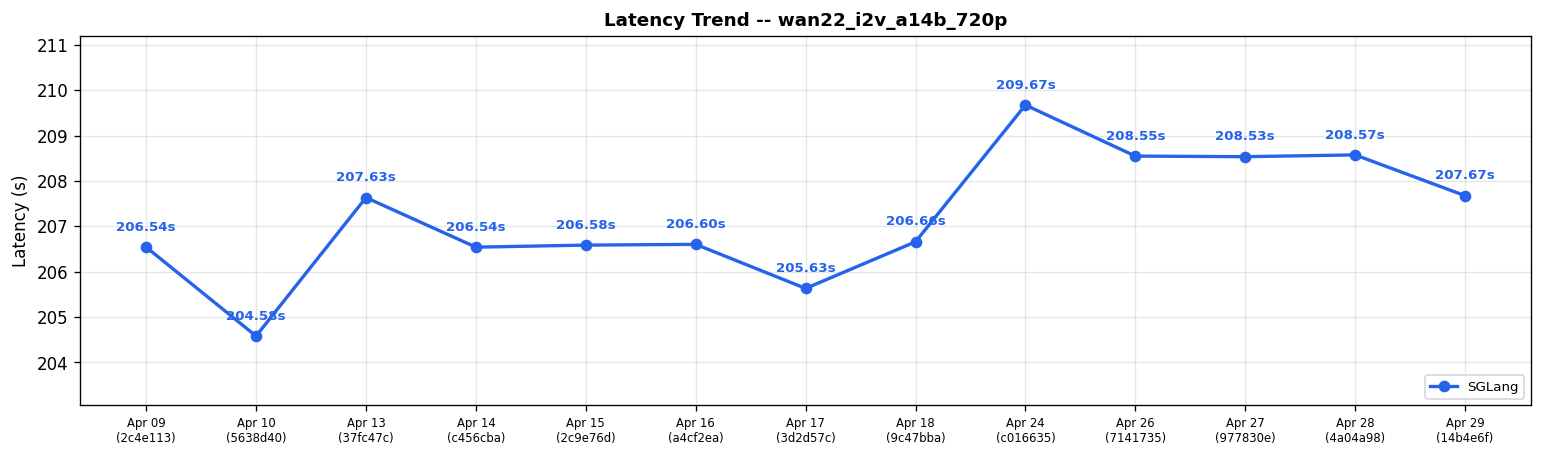
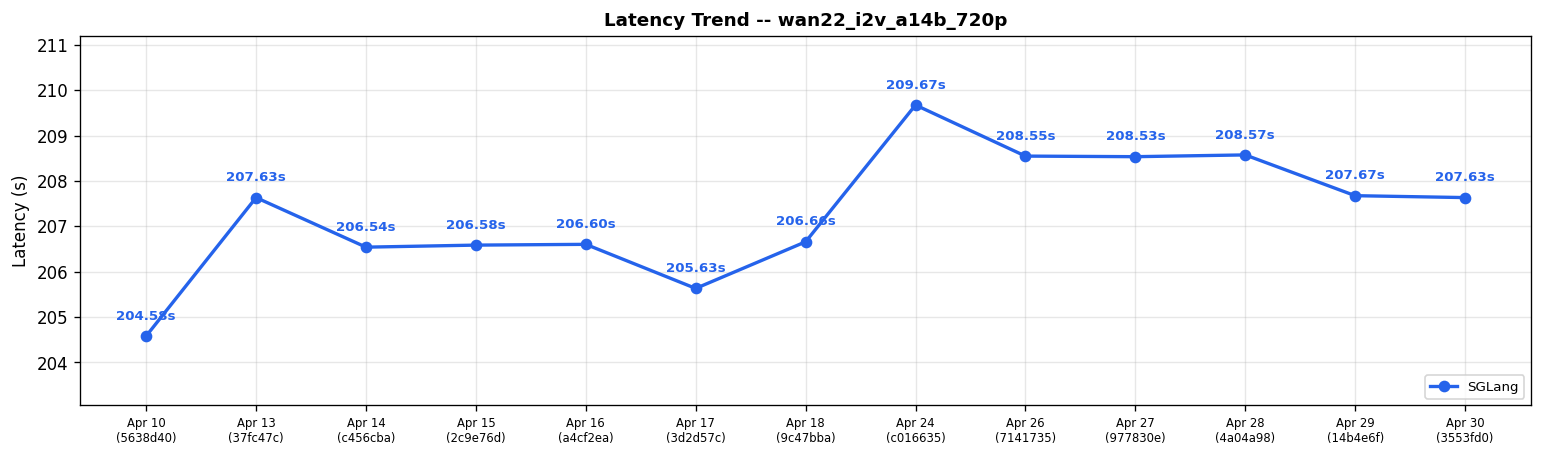
Diffusion comparison results for run 25141769035 (#587)

diff --git a/diffusion-comparisons/dashboard.md b/diffusion-comparisons/dashboard.md
@@ -1,21 +1,21 @@
 # Diffusion Cross-Framework Performance Dashboard
 
-*Generated: Apr 29 | Commit: `14b4e6f`*
+*Generated: Apr 30 | Commit: `3553fd0`*
 
 ## Cross-Framework Performance Comparison
 
 | Model | Risk | sglang (s) |
 |-------|------|---------|
-| FLUX.1-dev | ✅ | **6.69** |
-| FLUX.2-dev | ✅ | **22.78** |
-| Qwen-Image-2512 | ✅ | **13.16** |
-| Qwen-Image-Edit-2511 | ✅ | **23.84** |
-| Z-Image-Turbo | ✅ | **0.89** |
-| Wan2.2-T2V-A14B-Diffusers | ✅ | **210.95** |
-| Wan2.2-TI2V-5B-Diffusers | ✅ | **62.20** |
-| LTX-2 | ✅ | **11.88** |
+| FLUX.1-dev | ✅ | **6.74** |
+| FLUX.2-dev | ✅ | **22.93** |
+| Qwen-Image-2512 | ✅ | **13.25** |
+| Qwen-Image-Edit-2511 | ✅ | **24.03** |
+| Z-Image-Turbo | ✅ | **0.90** |
+| Wan2.2-T2V-A14B-Diffusers | ✅ | **212.47** |
+| Wan2.2-TI2V-5B-Diffusers | ✅ | **62.18** |
+| LTX-2 | ✅ | **11.99** |
 | LTX-2.3 | ❌ | N/A |
-| Wan2.2-I2V-A14B-Diffusers | ✅ | **207.67** |
+| Wan2.2-I2V-A14B-Diffusers | ✅ | **207.63** |
 
 ### Latency Trend: flux1_dev_t2i_1024
 
@@ -71,6 +71,7 @@
 
 | Date | Commit | flux1_dev_t2i_1024 (s) | flux2_dev_t2i_1024 (s) | qwen_image_2512_t2i_1024 (s) | qwen_image_edit_2511 (s) | zimage_turbo_t2i_1024 (s) | wan22_t2v_a14b_720p (s) | wan22_ti2v_5b_720p (s) | ltx2_twostage_t2v (s) | ltx2.3_twostage_ti2v_2gpus (s) | wan22_i2v_a14b_720p (s) | Trend |
 |------|--------|---------|---------|---------|---------|---------|---------|---------|---------|---------|---------|-------|
+| Apr 30 | `3553fd0` | 6.74 | 22.93 | 13.25 | 24.03 | 0.90 | 212.47 | 62.18 | 11.99 | N/A | 207.63 | :left_right_arrow:  :left_right_arrow:  :left_right_arrow:  :left_right_arrow:  :left_right_arrow:  :left_right_arrow:  :left_right_arrow:  :left_right_arrow:   :left_right_arrow: |
 | Apr 29 | `14b4e6f` | 6.69 | 22.78 | 13.16 | 23.84 | 0.89 | 210.95 | 62.20 | 11.88 | N/A | 207.67 | :left_right_arrow:  :left_right_arrow:  :left_right_arrow:  :left_right_arrow:  :left_right_arrow:  :left_right_arrow:  :left_right_arrow:  :left_right_arrow:   :left_right_arrow: |
 | Apr 28 | `4a04a98` | 6.69 | 22.75 | 13.28 | 23.89 | 0.89 | 211.33 | 61.19 | 11.84 | N/A | 208.57 | :left_right_arrow:  :left_right_arrow:  :left_right_arrow:  :left_right_arrow:  :left_right_arrow:  :left_right_arrow:  :arrow_down:  :left_right_arrow:   :left_right_arrow: |
 | Apr 27 | `977830e` | 6.72 | 22.91 | 13.24 | 23.91 | 0.89 | 212.10 | 63.20 | 11.80 | N/A | 208.53 | :left_right_arrow:  :left_right_arrow:  :left_right_arrow:  :left_right_arrow:  :left_right_arrow:  :left_right_arrow:  :left_right_arrow:  :left_right_arrow:   :left_right_arrow: |
@@ -84,8 +85,7 @@
 | Apr 15 | `2c9e76d` | 6.69 | 22.78 | 13.14 | 23.82 | 0.89 | 209.49 | 63.18 | 14.97 | N/A | 206.58 | :left_right_arrow:  :left_right_arrow:  :left_right_arrow:  :left_right_arrow:  :left_right_arrow:  :left_right_arrow:  :left_right_arrow:  :arrow_up:   :left_right_arrow: |
 | Apr 14 | `c456cba` | 6.70 | 22.85 | 13.17 | 23.83 | 0.89 | 210.52 | 62.16 | 14.58 | N/A | 206.54 | :left_right_arrow:  :left_right_arrow:  :left_right_arrow:  :left_right_arrow:  :left_right_arrow:  :left_right_arrow:  :left_right_arrow:  :left_right_arrow:   :left_right_arrow: |
 | Apr 13 | `37fc47c` | 6.60 | 22.61 | 12.99 | 23.60 | 0.88 | 209.76 | 61.17 | 14.74 | N/A | 207.63 | :left_right_arrow:  :left_right_arrow:  :left_right_arrow:  :left_right_arrow:  :left_right_arrow:  :left_right_arrow:  :left_right_arrow:  :arrow_up:   :left_right_arrow: |
-| Apr 10 | `5638d40` | 6.68 | 22.78 | 13.16 | 23.76 | 0.88 | 209.41 | 62.16 | 14.21 | N/A | 204.58 | :left_right_arrow:  :left_right_arrow:  :left_right_arrow:  :left_right_arrow:  :left_right_arrow:  :left_right_arrow:  :left_right_arrow:  :arrow_down:   :left_right_arrow: |
-| Apr 09 | `2c4e113` | 6.71 | 22.93 | 13.20 | 23.80 | 0.89 | 210.35 | 62.16 | 14.71 | N/A | 206.54 | -- |
+| Apr 10 | `5638d40` | 6.68 | 22.78 | 13.16 | 23.76 | 0.88 | 209.41 | 62.16 | 14.21 | N/A | 204.58 | -- |
 
 > [!CAUTION]
 > **Action Required — Performance Alert**
